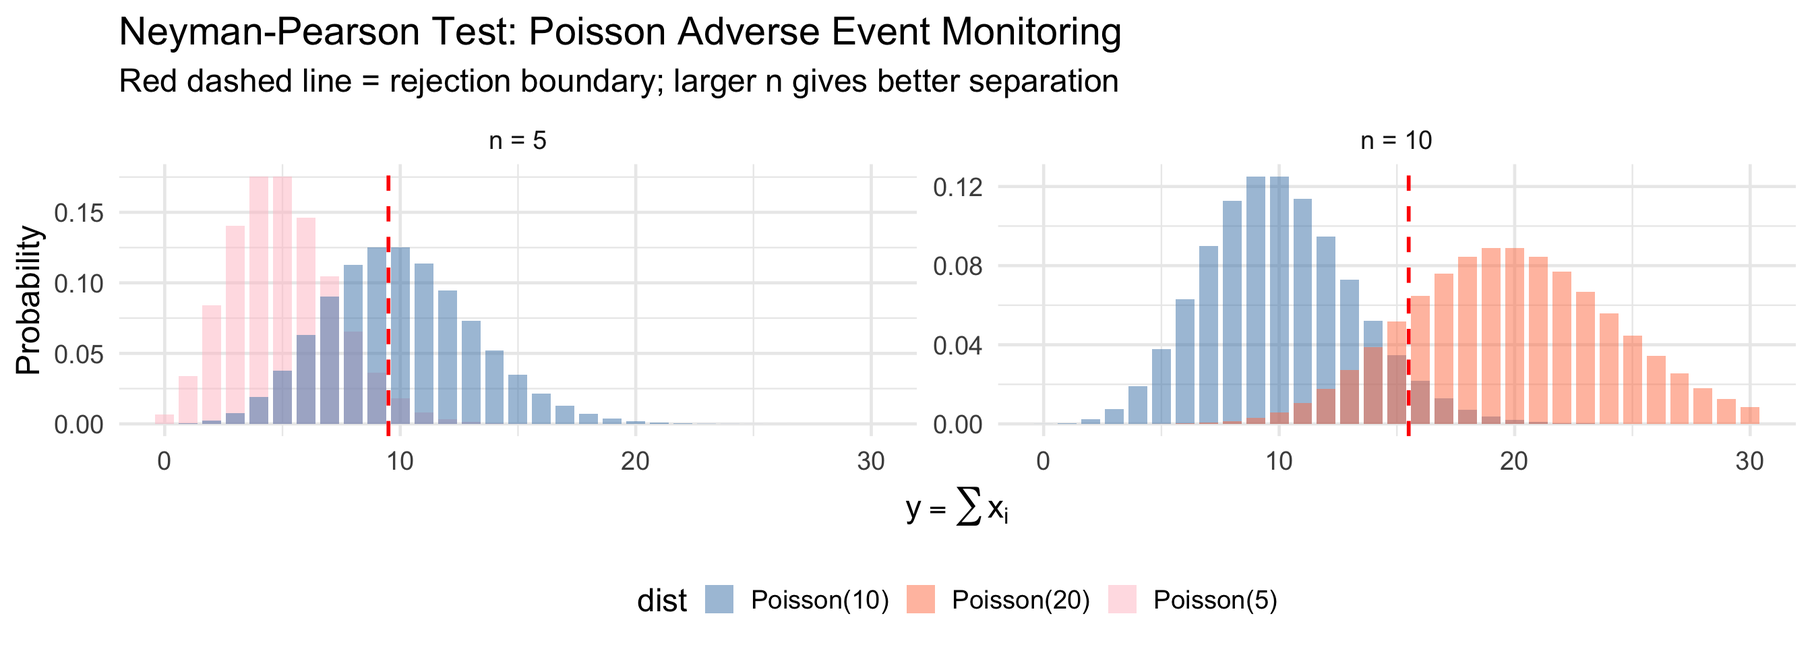
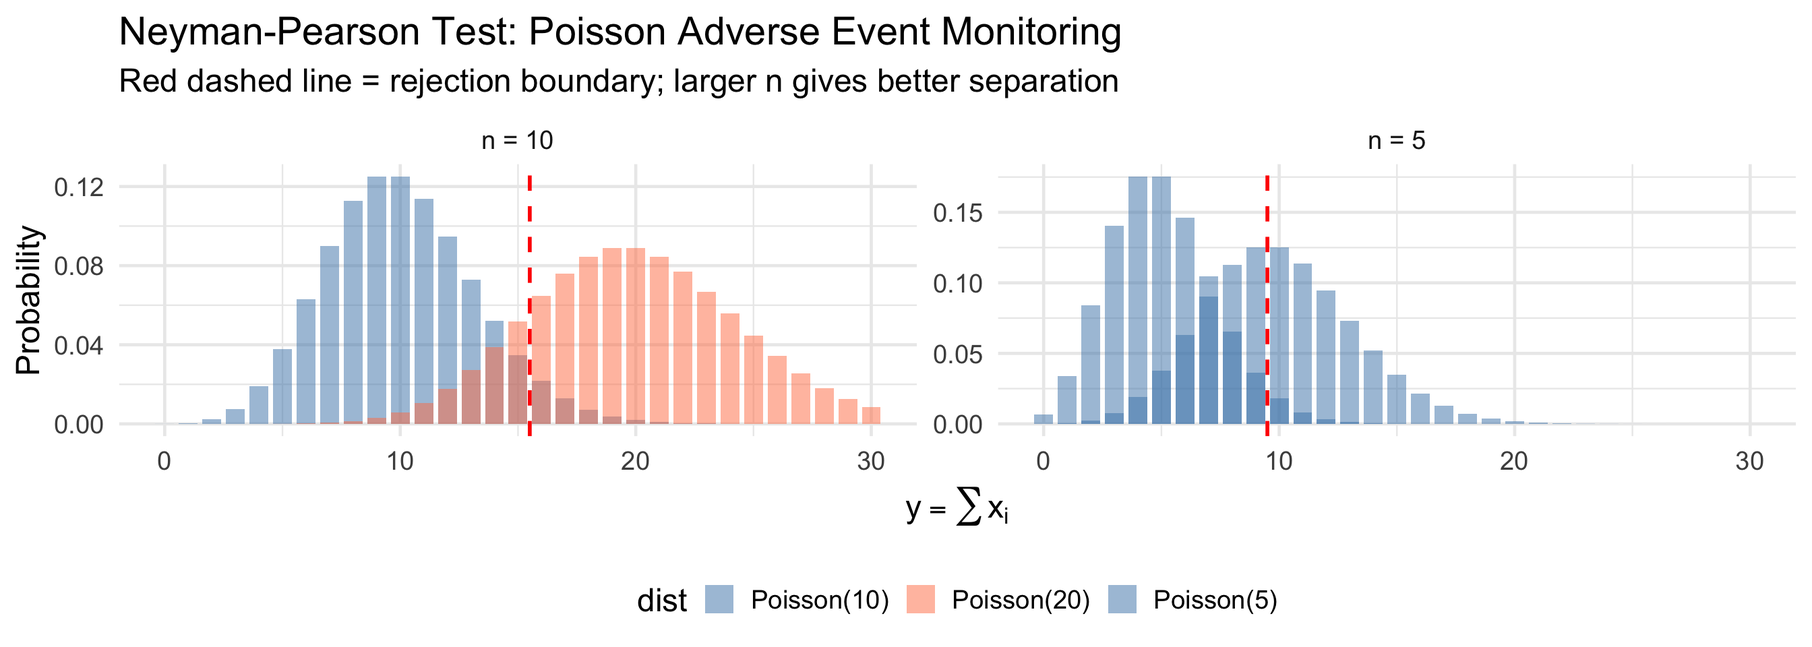
update lesson 15

diff --git a/docs/lessons/15_NeymanPearson_LRT/15_NeymanPearson_LRT.html b/docs/lessons/15_NeymanPearson_LRT/15_NeymanPearson_LRT.html
@@ -623,19 +623,18 @@ Jessica Minnier
 <span id="cb7-8"><a></a>  ) <span class="sc">|&gt;</span></span>
 <span id="cb7-9"><a></a>  <span class="fu">pivot_longer</span>(<span class="sc">-</span>y, <span class="at">names_to =</span> <span class="st">"distribution"</span>, <span class="at">values_to =</span> <span class="st">"prob"</span>) <span class="sc">|&gt;</span></span>
 <span id="cb7-10"><a></a>  <span class="fu">separate</span>(distribution, <span class="at">into =</span> <span class="fu">c</span>(<span class="st">"sample_size"</span>, <span class="st">"dist"</span>), <span class="at">sep =</span> <span class="st">", "</span>) <span class="sc">|&gt;</span></span>
-<span id="cb7-11"><a></a>  <span class="fu">mutate</span>(<span class="at">sample_size =</span> <span class="fu">fct_rev</span>(<span class="fu">as.factor</span>(sample_size))) <span class="sc">|&gt;</span></span>
-<span id="cb7-12"><a></a>  <span class="fu">ggplot</span>(<span class="fu">aes</span>(<span class="at">x =</span> y, <span class="at">y =</span> prob, <span class="at">fill =</span> dist)) <span class="sc">+</span></span>
-<span id="cb7-13"><a></a>  <span class="fu">geom_col</span>(<span class="at">position =</span> <span class="st">"identity"</span>, <span class="at">alpha =</span> <span class="fl">0.5</span>, <span class="at">width =</span> <span class="fl">0.8</span>) <span class="sc">+</span></span>
-<span id="cb7-14"><a></a>  <span class="fu">geom_vline</span>(<span class="at">data =</span> <span class="fu">tibble</span>(<span class="at">sample_size =</span> <span class="fu">as.factor</span>(<span class="fu">c</span>(<span class="st">"n = 5"</span>, <span class="st">"n = 10"</span>)), </span>
-<span id="cb7-15"><a></a>                            <span class="at">cutoff =</span> <span class="fu">c</span>(<span class="dv">10</span>, <span class="dv">16</span>)),</span>
-<span id="cb7-16"><a></a>             <span class="fu">aes</span>(<span class="at">xintercept =</span> cutoff <span class="sc">-</span> <span class="fl">0.5</span>), <span class="at">linetype =</span> <span class="st">"dashed"</span>, </span>
-<span id="cb7-17"><a></a>             <span class="at">color =</span> <span class="st">"red"</span>, <span class="at">linewidth =</span> <span class="dv">1</span>) <span class="sc">+</span></span>
-<span id="cb7-18"><a></a>  <span class="fu">facet_wrap</span>(<span class="sc">~</span>sample_size, <span class="at">scales =</span> <span class="st">"free"</span>) <span class="sc">+</span></span>
-<span id="cb7-19"><a></a>  <span class="fu">scale_fill_manual</span>(<span class="at">values =</span> <span class="fu">c</span>(<span class="st">"steelblue"</span>, <span class="st">"coral"</span>, <span class="st">"pink"</span>)) <span class="sc">+</span></span>
-<span id="cb7-20"><a></a>  <span class="fu">labs</span>(<span class="at">x =</span> <span class="fu">expression</span>(y <span class="sc">==</span> <span class="fu">sum</span>(x[i])), <span class="at">y =</span> <span class="st">"Probability"</span>,</span>
-<span id="cb7-21"><a></a>       <span class="at">title =</span> <span class="st">"Neyman-Pearson Test: Poisson Adverse Event Monitoring"</span>,</span>
-<span id="cb7-22"><a></a>       <span class="at">subtitle =</span> <span class="st">"Red dashed line = rejection boundary; larger n gives better separation"</span>) <span class="sc">+</span></span>
-<span id="cb7-23"><a></a>  <span class="fu">theme</span>(<span class="at">legend.position =</span> <span class="st">"bottom"</span>)</span></code><button title="Copy to Clipboard" class="code-copy-button"><i class="bi"></i></button></pre></div>
+<span id="cb7-11"><a></a>  <span class="fu">ggplot</span>(<span class="fu">aes</span>(<span class="at">x =</span> y, <span class="at">y =</span> prob, <span class="at">fill =</span> dist)) <span class="sc">+</span></span>
+<span id="cb7-12"><a></a>  <span class="fu">geom_col</span>(<span class="at">position =</span> <span class="st">"identity"</span>, <span class="at">alpha =</span> <span class="fl">0.5</span>, <span class="at">width =</span> <span class="fl">0.8</span>) <span class="sc">+</span></span>
+<span id="cb7-13"><a></a>  <span class="fu">geom_vline</span>(<span class="at">data =</span> <span class="fu">tibble</span>(<span class="at">sample_size =</span> <span class="fu">c</span>(<span class="st">"n = 5"</span>, <span class="st">"n = 10"</span>), </span>
+<span id="cb7-14"><a></a>                            <span class="at">cutoff =</span> <span class="fu">c</span>(<span class="dv">10</span>, <span class="dv">16</span>)),</span>
+<span id="cb7-15"><a></a>             <span class="fu">aes</span>(<span class="at">xintercept =</span> cutoff <span class="sc">-</span> <span class="fl">0.5</span>), <span class="at">linetype =</span> <span class="st">"dashed"</span>, </span>
+<span id="cb7-16"><a></a>             <span class="at">color =</span> <span class="st">"red"</span>, <span class="at">linewidth =</span> <span class="dv">1</span>) <span class="sc">+</span></span>
+<span id="cb7-17"><a></a>  <span class="fu">facet_wrap</span>(<span class="sc">~</span>sample_size, <span class="at">scales =</span> <span class="st">"free"</span>) <span class="sc">+</span></span>
+<span id="cb7-18"><a></a>  <span class="fu">scale_fill_manual</span>(<span class="at">values =</span> <span class="fu">c</span>(<span class="st">"steelblue"</span>, <span class="st">"coral"</span>, <span class="st">"steelblue"</span>, <span class="st">"coral"</span>)) <span class="sc">+</span></span>
+<span id="cb7-19"><a></a>  <span class="fu">labs</span>(<span class="at">x =</span> <span class="fu">expression</span>(y <span class="sc">==</span> <span class="fu">sum</span>(x[i])), <span class="at">y =</span> <span class="st">"Probability"</span>,</span>
+<span id="cb7-20"><a></a>       <span class="at">title =</span> <span class="st">"Neyman-Pearson Test: Poisson Adverse Event Monitoring"</span>,</span>
+<span id="cb7-21"><a></a>       <span class="at">subtitle =</span> <span class="st">"Red dashed line = rejection boundary; larger n gives better separation"</span>) <span class="sc">+</span></span>
+<span id="cb7-22"><a></a>  <span class="fu">theme</span>(<span class="at">legend.position =</span> <span class="st">"bottom"</span>)</span></code><button title="Copy to Clipboard" class="code-copy-button"><i class="bi"></i></button></pre></div>
 </details>
 <div class="cell-output-display">
 <div>
@@ -1387,7 +1386,7 @@ Jessica Minnier
 <div class="sourceCode cell-code" id="cb31"><pre class="sourceCode numberSource r number-lines code-with-copy"><code class="sourceCode r"><span id="cb31-1"><a></a><span class="co"># Check chi-squared approximation quality for different n</span></span>
 <span id="cb31-2"><a></a><span class="co"># Normal mean, unknown variance -&gt; -2ln(Lambda) = n*ln(1 + t^2/(n-1))</span></span>
 <span id="cb31-3"><a></a><span class="fu">set.seed</span>(<span class="dv">551</span>)</span>
-<span id="cb31-4"><a></a>n_rep <span class="ot">&lt;-</span> <span class="dv">10000</span></span>
+<span id="cb31-4"><a></a>n_rep <span class="ot">&lt;-</span> <span class="dv">50000</span></span>
 <span id="cb31-5"><a></a>sample_sizes <span class="ot">&lt;-</span> <span class="fu">c</span>(<span class="dv">5</span>, <span class="dv">10</span>, <span class="dv">30</span>, <span class="dv">100</span>)</span>
 <span id="cb31-6"><a></a></span>
 <span id="cb31-7"><a></a>sim_results <span class="ot">&lt;-</span> <span class="fu">map_dfr</span>(sample_sizes, <span class="cf">function</span>(n_val) {</span>
@@ -1396,29 +1395,65 @@ Jessica Minnier
 <span id="cb31-10"><a></a>    t_stat <span class="ot">&lt;-</span> <span class="fu">mean</span>(x) <span class="sc">/</span> (<span class="fu">sd</span>(x) <span class="sc">/</span> <span class="fu">sqrt</span>(n_val))</span>
 <span id="cb31-11"><a></a>    n_val <span class="sc">*</span> <span class="fu">log</span>(<span class="dv">1</span> <span class="sc">+</span> t_stat<span class="sc">^</span><span class="dv">2</span> <span class="sc">/</span> (n_val <span class="sc">-</span> <span class="dv">1</span>))</span>
 <span id="cb31-12"><a></a>  })</span>
-<span id="cb31-13"><a></a>  <span class="fu">tibble</span>(<span class="at">n =</span> <span class="fu">paste0</span>(<span class="st">"n = "</span>, n_val), <span class="at">stat =</span> stats)</span>
+<span id="cb31-13"><a></a>  <span class="fu">tibble</span>(<span class="at">n =</span> n_val, <span class="at">n_label =</span> <span class="fu">paste0</span>(<span class="st">"n = "</span>, n_val), <span class="at">stat =</span> stats)</span>
 <span id="cb31-14"><a></a>})</span>
 <span id="cb31-15"><a></a></span>
-<span id="cb31-16"><a></a>sim_results <span class="sc">|&gt;</span></span>
-<span id="cb31-17"><a></a>  <span class="fu">mutate</span>(<span class="at">n =</span> <span class="fu">factor</span>(n, <span class="at">levels =</span> <span class="fu">paste0</span>(<span class="st">"n = "</span>, sample_sizes))) <span class="sc">|&gt;</span></span>
-<span id="cb31-18"><a></a>  <span class="fu">ggplot</span>(<span class="fu">aes</span>(<span class="at">x =</span> stat)) <span class="sc">+</span></span>
-<span id="cb31-19"><a></a>  <span class="fu">geom_histogram</span>(<span class="fu">aes</span>(<span class="at">y =</span> <span class="fu">after_stat</span>(density)), <span class="at">bins =</span> <span class="dv">50</span>, </span>
-<span id="cb31-20"><a></a>                 <span class="at">fill =</span> <span class="st">"steelblue"</span>, <span class="at">alpha =</span> <span class="fl">0.5</span>) <span class="sc">+</span></span>
-<span id="cb31-21"><a></a>  <span class="fu">geom_line</span>(<span class="at">data =</span> <span class="fu">tibble</span>(<span class="at">x =</span> <span class="fu">rep</span>(chi2_theoretical, <span class="dv">4</span>),</span>
-<span id="cb31-22"><a></a>                          <span class="at">y =</span> <span class="fu">rep</span>(<span class="fu">dchisq</span>(chi2_theoretical, <span class="dv">1</span>), <span class="dv">4</span>),</span>
-<span id="cb31-23"><a></a>                          <span class="at">n =</span> <span class="fu">rep</span>(<span class="fu">paste0</span>(<span class="st">"n = "</span>, sample_sizes), </span>
-<span id="cb31-24"><a></a>                                  <span class="at">each =</span> <span class="fu">length</span>(chi2_theoretical))) <span class="sc">|&gt;</span></span>
-<span id="cb31-25"><a></a>              <span class="fu">mutate</span>(<span class="at">n =</span> <span class="fu">factor</span>(n, <span class="at">levels =</span> <span class="fu">paste0</span>(<span class="st">"n = "</span>, sample_sizes))),</span>
-<span id="cb31-26"><a></a>            <span class="fu">aes</span>(<span class="at">x =</span> x, <span class="at">y =</span> y), <span class="at">color =</span> <span class="st">"coral"</span>, <span class="at">linewidth =</span> <span class="dv">1</span>) <span class="sc">+</span></span>
-<span id="cb31-27"><a></a>  <span class="fu">facet_wrap</span>(<span class="sc">~</span>n, <span class="at">scales =</span> <span class="st">"free_y"</span>) <span class="sc">+</span></span>
-<span id="cb31-28"><a></a>  <span class="fu">coord_cartesian</span>(<span class="at">xlim =</span> <span class="fu">c</span>(<span class="dv">0</span>, <span class="dv">10</span>)) <span class="sc">+</span></span>
-<span id="cb31-29"><a></a>  <span class="fu">labs</span>(<span class="at">x =</span> <span class="fu">expression</span>(<span class="sc">-</span><span class="dv">2</span> <span class="sc">*</span> <span class="fu">ln</span>(Lambda)), <span class="at">y =</span> <span class="st">"Density"</span>,</span>
-<span id="cb31-30"><a></a>       <span class="at">title =</span> <span class="fu">expression</span>(<span class="st">"Quality of "</span> <span class="sc">*</span> chi<span class="sc">^</span><span class="dv">2</span> <span class="sc">*</span> <span class="st">" Approximation for the t Test LRT"</span>),</span>
-<span id="cb31-31"><a></a>       <span class="at">subtitle =</span> <span class="fu">expression</span>(<span class="st">"Red: "</span> <span class="sc">*</span> chi[<span class="dv">1</span>]<span class="sc">^</span><span class="dv">2</span> <span class="sc">*</span> <span class="st">" density. Approximation improves with n"</span>))</span></code><button title="Copy to Clipboard" class="code-copy-button"><i class="bi"></i></button></pre></div>
+<span id="cb31-16"><a></a><span class="co"># Overlay: simulated density vs chi-squared(1) reference</span></span>
+<span id="cb31-17"><a></a>chi2_ref <span class="ot">&lt;-</span> <span class="fu">tibble</span>(</span>
+<span id="cb31-18"><a></a>  <span class="at">x =</span> <span class="fu">seq</span>(<span class="fl">0.01</span>, <span class="dv">10</span>, <span class="at">length.out =</span> <span class="dv">500</span>),</span>
+<span id="cb31-19"><a></a>  <span class="at">y =</span> <span class="fu">dchisq</span>(x, <span class="at">df =</span> <span class="dv">1</span>)</span>
+<span id="cb31-20"><a></a>)</span>
+<span id="cb31-21"><a></a></span>
+<span id="cb31-22"><a></a>p_facet <span class="ot">&lt;-</span> sim_results <span class="sc">|&gt;</span></span>
+<span id="cb31-23"><a></a>  <span class="fu">mutate</span>(<span class="at">n_label =</span> <span class="fu">factor</span>(n_label, <span class="at">levels =</span> <span class="fu">paste0</span>(<span class="st">"n = "</span>, sample_sizes))) <span class="sc">|&gt;</span></span>
+<span id="cb31-24"><a></a>  <span class="fu">ggplot</span>(<span class="fu">aes</span>(<span class="at">x =</span> stat)) <span class="sc">+</span></span>
+<span id="cb31-25"><a></a>  <span class="fu">geom_density</span>(<span class="fu">aes</span>(<span class="at">color =</span> <span class="st">"Simulated"</span>), <span class="at">linewidth =</span> <span class="fl">1.1</span>, <span class="at">key_glyph =</span> <span class="st">"path"</span>) <span class="sc">+</span></span>
+<span id="cb31-26"><a></a>  <span class="fu">geom_line</span>(<span class="at">data =</span> chi2_ref <span class="sc">|&gt;</span> <span class="fu">crossing</span>(<span class="at">n_label =</span> <span class="fu">factor</span>(<span class="fu">paste0</span>(<span class="st">"n = "</span>, sample_sizes), </span>
+<span id="cb31-27"><a></a>            <span class="at">levels =</span> <span class="fu">paste0</span>(<span class="st">"n = "</span>, sample_sizes))),</span>
+<span id="cb31-28"><a></a>            <span class="fu">aes</span>(<span class="at">x =</span> x, <span class="at">y =</span> y, <span class="at">color =</span> <span class="st">"Chi-squared(1)"</span>), <span class="at">linewidth =</span> <span class="fl">1.1</span>,</span>
+<span id="cb31-29"><a></a>            <span class="at">linetype =</span> <span class="st">"dashed"</span>, <span class="at">key_glyph =</span> <span class="st">"path"</span>) <span class="sc">+</span></span>
+<span id="cb31-30"><a></a>  <span class="fu">facet_wrap</span>(<span class="sc">~</span>n_label) <span class="sc">+</span></span>
+<span id="cb31-31"><a></a>  <span class="fu">scale_color_manual</span>(<span class="at">values =</span> <span class="fu">c</span>(<span class="st">"Simulated"</span> <span class="ot">=</span> <span class="st">"steelblue"</span>, <span class="st">"Chi-squared(1)"</span> <span class="ot">=</span> <span class="st">"coral"</span>)) <span class="sc">+</span></span>
+<span id="cb31-32"><a></a>  <span class="fu">coord_cartesian</span>(<span class="at">xlim =</span> <span class="fu">c</span>(<span class="dv">0</span>, <span class="dv">8</span>), <span class="at">ylim =</span> <span class="fu">c</span>(<span class="dv">0</span>, <span class="fl">1.5</span>)) <span class="sc">+</span></span>
+<span id="cb31-33"><a></a>  <span class="fu">labs</span>(<span class="at">x =</span> <span class="fu">expression</span>(<span class="sc">-</span><span class="dv">2</span> <span class="sc">*</span> <span class="fu">ln</span>(Lambda)), <span class="at">y =</span> <span class="st">"Density"</span>,</span>
+<span id="cb31-34"><a></a>       <span class="at">title =</span> <span class="fu">expression</span>(<span class="st">"Quality of "</span> <span class="sc">*</span> chi<span class="sc">^</span><span class="dv">2</span> <span class="sc">*</span> <span class="st">"(1) Approximation for the t Test LRT"</span>),</span>
+<span id="cb31-35"><a></a>       <span class="at">subtitle =</span> <span class="st">"Solid blue = simulated; dashed red = reference. Heavy tails for small n."</span>,</span>
+<span id="cb31-36"><a></a>       <span class="at">color =</span> <span class="cn">NULL</span>) <span class="sc">+</span></span>
+<span id="cb31-37"><a></a>  <span class="fu">theme</span>(<span class="at">legend.position =</span> <span class="st">"bottom"</span>)</span>
+<span id="cb31-38"><a></a></span>
+<span id="cb31-39"><a></a>p_facet</span></code><button title="Copy to Clipboard" class="code-copy-button"><i class="bi"></i></button></pre></div>
 </details>
 
 </div>
-<img data-src="15_NeymanPearson_LRT_files/figure-revealjs/unnamed-chunk-12-1.png" width="1344" class="r-stretch"></section></section>
+<img data-src="15_NeymanPearson_LRT_files/figure-revealjs/unnamed-chunk-12-1.png" width="1344" class="r-stretch"></section>
+<section id="how-good-is-the-approximation-for-small-n-1" class="slide level2">
+<h2>How Good is the Approximation for Small <span class="math inline">\(n\)</span>?</h2>
+<div class="cell">
+<details class="code-fold">
+<summary>Code</summary>
+<div class="sourceCode cell-code" id="cb32"><pre class="sourceCode numberSource r number-lines code-with-copy"><code class="sourceCode r"><span id="cb32-1"><a></a><span class="co"># Also show Q-Q plots against chi-squared(1) for each n</span></span>
+<span id="cb32-2"><a></a>p_qq <span class="ot">&lt;-</span> sim_results <span class="sc">|&gt;</span></span>
+<span id="cb32-3"><a></a>  <span class="fu">mutate</span>(<span class="at">n_label =</span> <span class="fu">factor</span>(n_label, <span class="at">levels =</span> <span class="fu">paste0</span>(<span class="st">"n = "</span>, sample_sizes))) <span class="sc">|&gt;</span></span>
+<span id="cb32-4"><a></a>  <span class="fu">group_by</span>(n_label) <span class="sc">|&gt;</span></span>
+<span id="cb32-5"><a></a>  <span class="fu">slice_sample</span>(<span class="at">n =</span> <span class="dv">2000</span>) <span class="sc">|&gt;</span></span>
+<span id="cb32-6"><a></a>  <span class="fu">ungroup</span>() <span class="sc">|&gt;</span></span>
+<span id="cb32-7"><a></a>  <span class="fu">ggplot</span>(<span class="fu">aes</span>(<span class="at">sample =</span> stat)) <span class="sc">+</span></span>
+<span id="cb32-8"><a></a>  <span class="fu">stat_qq</span>(<span class="at">distribution =</span> qchisq, <span class="at">dparams =</span> <span class="fu">list</span>(<span class="at">df =</span> <span class="dv">1</span>),</span>
+<span id="cb32-9"><a></a>          <span class="at">color =</span> <span class="st">"steelblue"</span>, <span class="at">alpha =</span> <span class="fl">0.15</span>, <span class="at">size =</span> <span class="fl">0.7</span>) <span class="sc">+</span></span>
+<span id="cb32-10"><a></a>  <span class="fu">geom_abline</span>(<span class="at">slope =</span> <span class="dv">1</span>, <span class="at">intercept =</span> <span class="dv">0</span>, <span class="at">color =</span> <span class="st">"coral"</span>, </span>
+<span id="cb32-11"><a></a>              <span class="at">linewidth =</span> <span class="dv">1</span>, <span class="at">linetype =</span> <span class="st">"dashed"</span>) <span class="sc">+</span></span>
+<span id="cb32-12"><a></a>  <span class="fu">facet_wrap</span>(<span class="sc">~</span>n_label) <span class="sc">+</span></span>
+<span id="cb32-13"><a></a>  <span class="fu">coord_cartesian</span>(<span class="at">xlim =</span> <span class="fu">c</span>(<span class="dv">0</span>, <span class="dv">8</span>), <span class="at">ylim =</span> <span class="fu">c</span>(<span class="dv">0</span>, <span class="dv">12</span>)) <span class="sc">+</span></span>
+<span id="cb32-14"><a></a>  <span class="fu">labs</span>(<span class="at">x =</span> <span class="fu">expression</span>(<span class="st">"Theoretical "</span> <span class="sc">*</span> chi[<span class="dv">1</span>]<span class="sc">^</span><span class="dv">2</span> <span class="sc">*</span> <span class="st">" quantiles"</span>),</span>
+<span id="cb32-15"><a></a>       <span class="at">y =</span> <span class="st">"Sample quantiles"</span>,</span>
+<span id="cb32-16"><a></a>       <span class="at">title =</span> <span class="st">"Q-Q Plots Against Chi-squared(1)"</span>,</span>
+<span id="cb32-17"><a></a>       <span class="at">subtitle =</span> <span class="st">"Departure from diagonal shows approximation error for small n"</span>)</span>
+<span id="cb32-18"><a></a></span>
+<span id="cb32-19"><a></a>p_qq</span></code><button title="Copy to Clipboard" class="code-copy-button"><i class="bi"></i></button></pre></div>
+</details>
+
+</div>
+<img data-src="15_NeymanPearson_LRT_files/figure-revealjs/unnamed-chunk-13-1.png" width="1344" class="r-stretch"></section></section>
 <section>
 <section id="connecting-the-pieces" class="title-slide slide level1 center" data-background-color="#2c3e50">
 <h1>Connecting the Pieces</h1>
@@ -1429,60 +1464,60 @@ Jessica Minnier
 <div class="cell">
 <details class="code-fold">
 <summary>Code</summary>
-<div class="sourceCode cell-code" id="cb32"><pre class="sourceCode numberSource r number-lines code-with-copy"><code class="sourceCode r"><span id="cb32-1"><a></a><span class="fu">library</span>(DiagrammeR)</span>
-<span id="cb32-2"><a></a></span>
-<span id="cb32-3"><a></a><span class="fu">grViz</span>(<span class="st">"</span></span>
-<span id="cb32-4"><a></a><span class="st">digraph testing_framework {</span></span>
-<span id="cb32-5"><a></a><span class="st">  graph [rankdir=TB, bgcolor=transparent, fontsize=20]</span></span>
-<span id="cb32-6"><a></a><span class="st">  node [shape=box, style=filled, fontsize=16, fontname='Helvetica']</span></span>
-<span id="cb32-7"><a></a><span class="st">  </span></span>
-<span id="cb32-8"><a></a><span class="st">  # Top level</span></span>
-<span id="cb32-9"><a></a><span class="st">  A [label='Hypothesis Testing Problem</span><span class="sc">\\</span><span class="st">nH₀: θ ∈ Ω₀ vs Hₐ: θ ∈ Ωₐ', </span></span>
-<span id="cb32-10"><a></a><span class="st">     fillcolor='#3498db', fontcolor=white, width=4]</span></span>
-<span id="cb32-11"><a></a><span class="st">  </span></span>
-<span id="cb32-12"><a></a><span class="st">  # Decision node</span></span>
-<span id="cb32-13"><a></a><span class="st">  B [label='Are both hypotheses simple?', </span></span>
-<span id="cb32-14"><a></a><span class="st">     fillcolor='#f39c12', fontcolor=white, shape=diamond, width=3]</span></span>
-<span id="cb32-15"><a></a><span class="st">  </span></span>
-<span id="cb32-16"><a></a><span class="st">  # Simple path</span></span>
-<span id="cb32-17"><a></a><span class="st">  C [label='Neyman-Pearson Lemma</span><span class="sc">\\</span><span class="st">nLikelihood ratio: L(θₐ)/L(θ₀) ≥ k</span><span class="sc">\\</span><span class="st">nMost Powerful Test', </span></span>
-<span id="cb32-18"><a></a><span class="st">     fillcolor='#27ae60', fontcolor=white, width=3.5]</span></span>
-<span id="cb32-19"><a></a><span class="st">  </span></span>
-<span id="cb32-20"><a></a><span class="st">  # Composite path</span></span>
-<span id="cb32-21"><a></a><span class="st">  D [label='Likelihood Ratio Test (LRT)</span><span class="sc">\\</span><span class="st">nΛ = L(θ̂₀) / L(θ̂ₘₗₑ) ≤ k', </span></span>
-<span id="cb32-22"><a></a><span class="st">     fillcolor='#8e44ad', fontcolor=white, width=3.5]</span></span>
-<span id="cb32-23"><a></a><span class="st">  </span></span>
-<span id="cb32-24"><a></a><span class="st">  # UMP</span></span>
-<span id="cb32-25"><a></a><span class="st">  E [label='Same rejection region</span><span class="sc">\\</span><span class="st">nfor all θₐ ∈ Ωₐ?', </span></span>
-<span id="cb32-26"><a></a><span class="st">     fillcolor='#f39c12', fontcolor=white, shape=diamond, width=3]</span></span>
-<span id="cb32-27"><a></a><span class="st">  F [label='UMP Test</span><span class="sc">\\</span><span class="st">n(one-sided alternatives)', </span></span>
-<span id="cb32-28"><a></a><span class="st">     fillcolor='#27ae60', fontcolor=white, width=3]</span></span>
-<span id="cb32-29"><a></a><span class="st">  G [label='No UMP exists</span><span class="sc">\\</span><span class="st">n(two-sided alternatives)</span><span class="sc">\\</span><span class="st">nUse UMP Unbiased or LRT', </span></span>
-<span id="cb32-30"><a></a><span class="st">     fillcolor='#e74c3c', fontcolor=white, width=3.5]</span></span>
-<span id="cb32-31"><a></a><span class="st">  </span></span>
-<span id="cb32-32"><a></a><span class="st">  # LRT outcomes</span></span>
-<span id="cb32-33"><a></a><span class="st">  H [label='Exact distribution</span><span class="sc">\\</span><span class="st">nknown?', </span></span>
-<span id="cb32-34"><a></a><span class="st">     fillcolor='#f39c12', fontcolor=white, shape=diamond, width=3]</span></span>
-<span id="cb32-35"><a></a><span class="st">  I [label='Use exact test</span><span class="sc">\\</span><span class="st">n(z test, t test, F test)', </span></span>
-<span id="cb32-36"><a></a><span class="st">     fillcolor='#27ae60', fontcolor=white, width=3]</span></span>
-<span id="cb32-37"><a></a><span class="st">  J [label='Large-sample approx.</span><span class="sc">\\</span><span class="st">n-2ln(Λ) ~ χ²ₘ', </span></span>
-<span id="cb32-38"><a></a><span class="st">     fillcolor='#16a085', fontcolor=white, width=3]</span></span>
-<span id="cb32-39"><a></a><span class="st">  </span></span>
-<span id="cb32-40"><a></a><span class="st">  A -&gt; B</span></span>
-<span id="cb32-41"><a></a><span class="st">  B -&gt; C [label='  Yes', fontsize=14]</span></span>
-<span id="cb32-42"><a></a><span class="st">  B -&gt; D [label='  No', fontsize=14]</span></span>
-<span id="cb32-43"><a></a><span class="st">  C -&gt; E</span></span>
-<span id="cb32-44"><a></a><span class="st">  E -&gt; F [label='  Yes', fontsize=14]</span></span>
-<span id="cb32-45"><a></a><span class="st">  E -&gt; G [label='  No', fontsize=14]</span></span>
-<span id="cb32-46"><a></a><span class="st">  D -&gt; H</span></span>
-<span id="cb32-47"><a></a><span class="st">  H -&gt; I [label='  Yes', fontsize=14]</span></span>
-<span id="cb32-48"><a></a><span class="st">  H -&gt; J [label='  No', fontsize=14]</span></span>
-<span id="cb32-49"><a></a><span class="st">}</span></span>
-<span id="cb32-50"><a></a><span class="st">"</span>)</span></code><button title="Copy to Clipboard" class="code-copy-button"><i class="bi"></i></button></pre></div>
+<div class="sourceCode cell-code" id="cb33"><pre class="sourceCode numberSource r number-lines code-with-copy"><code class="sourceCode r"><span id="cb33-1"><a></a><span class="fu">library</span>(DiagrammeR)</span>
+<span id="cb33-2"><a></a></span>
+<span id="cb33-3"><a></a><span class="fu">grViz</span>(<span class="st">"</span></span>
+<span id="cb33-4"><a></a><span class="st">digraph testing_framework {</span></span>
+<span id="cb33-5"><a></a><span class="st">  graph [rankdir=TB, bgcolor=transparent, fontsize=20]</span></span>
+<span id="cb33-6"><a></a><span class="st">  node [shape=box, style=filled, fontsize=16, fontname='Helvetica']</span></span>
+<span id="cb33-7"><a></a><span class="st">  </span></span>
+<span id="cb33-8"><a></a><span class="st">  # Top level</span></span>
+<span id="cb33-9"><a></a><span class="st">  A [label='Hypothesis Testing Problem</span><span class="sc">\\</span><span class="st">nH₀: θ ∈ Ω₀ vs Hₐ: θ ∈ Ωₐ', </span></span>
+<span id="cb33-10"><a></a><span class="st">     fillcolor='#3498db', fontcolor=white, width=4]</span></span>
+<span id="cb33-11"><a></a><span class="st">  </span></span>
+<span id="cb33-12"><a></a><span class="st">  # Decision node</span></span>
+<span id="cb33-13"><a></a><span class="st">  B [label='Are both hypotheses simple?', </span></span>
+<span id="cb33-14"><a></a><span class="st">     fillcolor='#f39c12', fontcolor=white, shape=diamond, width=3]</span></span>
+<span id="cb33-15"><a></a><span class="st">  </span></span>
+<span id="cb33-16"><a></a><span class="st">  # Simple path</span></span>
+<span id="cb33-17"><a></a><span class="st">  C [label='Neyman-Pearson Lemma</span><span class="sc">\\</span><span class="st">nLikelihood ratio: L(θₐ)/L(θ₀) ≥ k</span><span class="sc">\\</span><span class="st">nMost Powerful Test', </span></span>
+<span id="cb33-18"><a></a><span class="st">     fillcolor='#27ae60', fontcolor=white, width=3.5]</span></span>
+<span id="cb33-19"><a></a><span class="st">  </span></span>
+<span id="cb33-20"><a></a><span class="st">  # Composite path</span></span>
+<span id="cb33-21"><a></a><span class="st">  D [label='Likelihood Ratio Test (LRT)</span><span class="sc">\\</span><span class="st">nΛ = L(θ̂₀) / L(θ̂ₘₗₑ) ≤ k', </span></span>
+<span id="cb33-22"><a></a><span class="st">     fillcolor='#8e44ad', fontcolor=white, width=3.5]</span></span>
+<span id="cb33-23"><a></a><span class="st">  </span></span>
+<span id="cb33-24"><a></a><span class="st">  # UMP</span></span>
+<span id="cb33-25"><a></a><span class="st">  E [label='Same rejection region</span><span class="sc">\\</span><span class="st">nfor all θₐ ∈ Ωₐ?', </span></span>
+<span id="cb33-26"><a></a><span class="st">     fillcolor='#f39c12', fontcolor=white, shape=diamond, width=3]</span></span>
+<span id="cb33-27"><a></a><span class="st">  F [label='UMP Test</span><span class="sc">\\</span><span class="st">n(one-sided alternatives;</span><span class="sc">\\</span><span class="st">nKarlin-Rubin Theorem)', </span></span>
+<span id="cb33-28"><a></a><span class="st">     fillcolor='#27ae60', fontcolor=white, width=3]</span></span>
+<span id="cb33-29"><a></a><span class="st">  G [label='No UMP exists</span><span class="sc">\\</span><span class="st">n(two-sided alternatives)</span><span class="sc">\\</span><span class="st">nUse UMP Unbiased or LRT', </span></span>
+<span id="cb33-30"><a></a><span class="st">     fillcolor='#e74c3c', fontcolor=white, width=3.5]</span></span>
+<span id="cb33-31"><a></a><span class="st">  </span></span>
+<span id="cb33-32"><a></a><span class="st">  # LRT outcomes</span></span>
+<span id="cb33-33"><a></a><span class="st">  H [label='Exact distribution</span><span class="sc">\\</span><span class="st">nknown?', </span></span>
+<span id="cb33-34"><a></a><span class="st">     fillcolor='#f39c12', fontcolor=white, shape=diamond, width=3]</span></span>
+<span id="cb33-35"><a></a><span class="st">  I [label='Use exact test</span><span class="sc">\\</span><span class="st">n(z test, t test, F test)', </span></span>
+<span id="cb33-36"><a></a><span class="st">     fillcolor='#27ae60', fontcolor=white, width=3]</span></span>
+<span id="cb33-37"><a></a><span class="st">  J [label='Large-sample approx.</span><span class="sc">\\</span><span class="st">n-2ln(Λ) ~ χ²ₘ', </span></span>
+<span id="cb33-38"><a></a><span class="st">     fillcolor='#16a085', fontcolor=white, width=3]</span></span>
+<span id="cb33-39"><a></a><span class="st">  </span></span>
+<span id="cb33-40"><a></a><span class="st">  A -&gt; B</span></span>
+<span id="cb33-41"><a></a><span class="st">  B -&gt; C [label='  Yes', fontsize=14]</span></span>
+<span id="cb33-42"><a></a><span class="st">  B -&gt; D [label='  No', fontsize=14]</span></span>
+<span id="cb33-43"><a></a><span class="st">  C -&gt; E</span></span>
+<span id="cb33-44"><a></a><span class="st">  E -&gt; F [label='  Yes', fontsize=14]</span></span>
+<span id="cb33-45"><a></a><span class="st">  E -&gt; G [label='  No', fontsize=14]</span></span>
+<span id="cb33-46"><a></a><span class="st">  D -&gt; H</span></span>
+<span id="cb33-47"><a></a><span class="st">  H -&gt; I [label='  Yes', fontsize=14]</span></span>
+<span id="cb33-48"><a></a><span class="st">  H -&gt; J [label='  No', fontsize=14]</span></span>
+<span id="cb33-49"><a></a><span class="st">}</span></span>
+<span id="cb33-50"><a></a><span class="st">"</span>)</span></code><button title="Copy to Clipboard" class="code-copy-button"><i class="bi"></i></button></pre></div>
 </details>
 <div class="cell-output-display">
-<div class="grViz html-widget html-fill-item" id="htmlwidget-e838a0905b5b8b420e16" style="width:1536px;height:768px;"></div>
-<script type="application/json" data-for="htmlwidget-e838a0905b5b8b420e16">{"x":{"diagram":"\ndigraph testing_framework {\n  graph [rankdir=TB, bgcolor=transparent, fontsize=20]\n  node [shape=box, style=filled, fontsize=16, fontname=\"Helvetica\"]\n  \n  # Top level\n  A [label=\"Hypothesis Testing Problem\\nH₀: θ ∈ Ω₀ vs Hₐ: θ ∈ Ωₐ\", \n     fillcolor=\"#3498db\", fontcolor=white, width=4]\n  \n  # Decision node\n  B [label=\"Are both hypotheses simple?\", \n     fillcolor=\"#f39c12\", fontcolor=white, shape=diamond, width=3]\n  \n  # Simple path\n  C [label=\"Neyman-Pearson Lemma\\nLikelihood ratio: L(θₐ)/L(θ₀) ≥ k\\nMost Powerful Test\", \n     fillcolor=\"#27ae60\", fontcolor=white, width=3.5]\n  \n  # Composite path\n  D [label=\"Likelihood Ratio Test (LRT)\\nΛ = L(θ̂₀) / L(θ̂ₘₗₑ) ≤ k\", \n     fillcolor=\"#8e44ad\", fontcolor=white, width=3.5]\n  \n  # UMP\n  E [label=\"Same rejection region\\nfor all θₐ ∈ Ωₐ?\", \n     fillcolor=\"#f39c12\", fontcolor=white, shape=diamond, width=3]\n  F [label=\"UMP Test\\n(one-sided alternatives)\", \n     fillcolor=\"#27ae60\", fontcolor=white, width=3]\n  G [label=\"No UMP exists\\n(two-sided alternatives)\\nUse UMP Unbiased or LRT\", \n     fillcolor=\"#e74c3c\", fontcolor=white, width=3.5]\n  \n  # LRT outcomes\n  H [label=\"Exact distribution\\nknown?\", \n     fillcolor=\"#f39c12\", fontcolor=white, shape=diamond, width=3]\n  I [label=\"Use exact test\\n(z test, t test, F test)\", \n     fillcolor=\"#27ae60\", fontcolor=white, width=3]\n  J [label=\"Large-sample approx.\\n-2ln(Λ) ~ χ²ₘ\", \n     fillcolor=\"#16a085\", fontcolor=white, width=3]\n  \n  A -> B\n  B -> C [label=\"  Yes\", fontsize=14]\n  B -> D [label=\"  No\", fontsize=14]\n  C -> E\n  E -> F [label=\"  Yes\", fontsize=14]\n  E -> G [label=\"  No\", fontsize=14]\n  D -> H\n  H -> I [label=\"  Yes\", fontsize=14]\n  H -> J [label=\"  No\", fontsize=14]\n}\n","config":{"engine":"dot","options":null}},"evals":[],"jsHooks":[]}</script>
+<div class="grViz html-widget html-fill-item" id="htmlwidget-0dd68904c5b7b7947ef7" style="width:1536px;height:768px;"></div>
+<script type="application/json" data-for="htmlwidget-0dd68904c5b7b7947ef7">{"x":{"diagram":"\ndigraph testing_framework {\n  graph [rankdir=TB, bgcolor=transparent, fontsize=20]\n  node [shape=box, style=filled, fontsize=16, fontname=\"Helvetica\"]\n  \n  # Top level\n  A [label=\"Hypothesis Testing Problem\\nH₀: θ ∈ Ω₀ vs Hₐ: θ ∈ Ωₐ\", \n     fillcolor=\"#3498db\", fontcolor=white, width=4]\n  \n  # Decision node\n  B [label=\"Are both hypotheses simple?\", \n     fillcolor=\"#f39c12\", fontcolor=white, shape=diamond, width=3]\n  \n  # Simple path\n  C [label=\"Neyman-Pearson Lemma\\nLikelihood ratio: L(θₐ)/L(θ₀) ≥ k\\nMost Powerful Test\", \n     fillcolor=\"#27ae60\", fontcolor=white, width=3.5]\n  \n  # Composite path\n  D [label=\"Likelihood Ratio Test (LRT)\\nΛ = L(θ̂₀) / L(θ̂ₘₗₑ) ≤ k\", \n     fillcolor=\"#8e44ad\", fontcolor=white, width=3.5]\n  \n  # UMP\n  E [label=\"Same rejection region\\nfor all θₐ ∈ Ωₐ?\", \n     fillcolor=\"#f39c12\", fontcolor=white, shape=diamond, width=3]\n  F [label=\"UMP Test\\n(one-sided alternatives;\\nKarlin-Rubin Theorem)\", \n     fillcolor=\"#27ae60\", fontcolor=white, width=3]\n  G [label=\"No UMP exists\\n(two-sided alternatives)\\nUse UMP Unbiased or LRT\", \n     fillcolor=\"#e74c3c\", fontcolor=white, width=3.5]\n  \n  # LRT outcomes\n  H [label=\"Exact distribution\\nknown?\", \n     fillcolor=\"#f39c12\", fontcolor=white, shape=diamond, width=3]\n  I [label=\"Use exact test\\n(z test, t test, F test)\", \n     fillcolor=\"#27ae60\", fontcolor=white, width=3]\n  J [label=\"Large-sample approx.\\n-2ln(Λ) ~ χ²ₘ\", \n     fillcolor=\"#16a085\", fontcolor=white, width=3]\n  \n  A -> B\n  B -> C [label=\"  Yes\", fontsize=14]\n  B -> D [label=\"  No\", fontsize=14]\n  C -> E\n  E -> F [label=\"  Yes\", fontsize=14]\n  E -> G [label=\"  No\", fontsize=14]\n  D -> H\n  H -> I [label=\"  Yes\", fontsize=14]\n  H -> J [label=\"  No\", fontsize=14]\n}\n","config":{"engine":"dot","options":null}},"evals":[],"jsHooks":[]}</script>
 </div>
 </div>
 </section>
